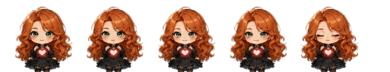
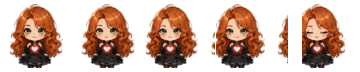
fix(cloud): registrar los frames del chibi (trim+center) para menos jitter
Los frames del sprite sheet AI estaban desalineados (chibi en distinta posición
y tamaño por frame → temblaba al ciclar). Ahora cada frame se recorta a su
contenido y se centra en un canvas uniforme de 72x72, así registran; y la
animación va más lenta (1.5s) para que las variaciones de pose no titilen.

diff --git a/ui/components/lyra/lyra.messages.css b/ui/components/lyra/lyra.messages.css
@@ -249,12 +249,12 @@
 /* Chibi de Lyra animado por frames (sprite) como indicador de "trabajando".
    Reemplaza al spin de puntos. 5 frames de 78x72 en una tira de 390x72. */
 .cloud-activity-chibi {
-  width: 78px; height: 72px; flex-shrink: 0;
-  background: url(/ui/assets/lyra-chibi-idle.png) 0 0 / 390px 72px no-repeat;
-  animation: cloud-chibi-frames .9s steps(5) infinite;
+  width: 72px; height: 72px; flex-shrink: 0;
+  background: url(/ui/assets/lyra-chibi-idle.png) 0 0 / 360px 72px no-repeat;
+  animation: cloud-chibi-frames 1.5s steps(5) infinite;
   filter: drop-shadow(0 2px 4px rgba(0,0,0,.35));
 }
-@keyframes cloud-chibi-frames { from { background-position-x: 0; } to { background-position-x: -390px; } }
+@keyframes cloud-chibi-frames { from { background-position-x: 0; } to { background-position-x: -360px; } }
 
 /* pi tool: ejecución de herramienta pedida por la nube. Verde, monoespaciado,
    claramente distinto de la nube (acento) y de Lyra (sin tinte). */